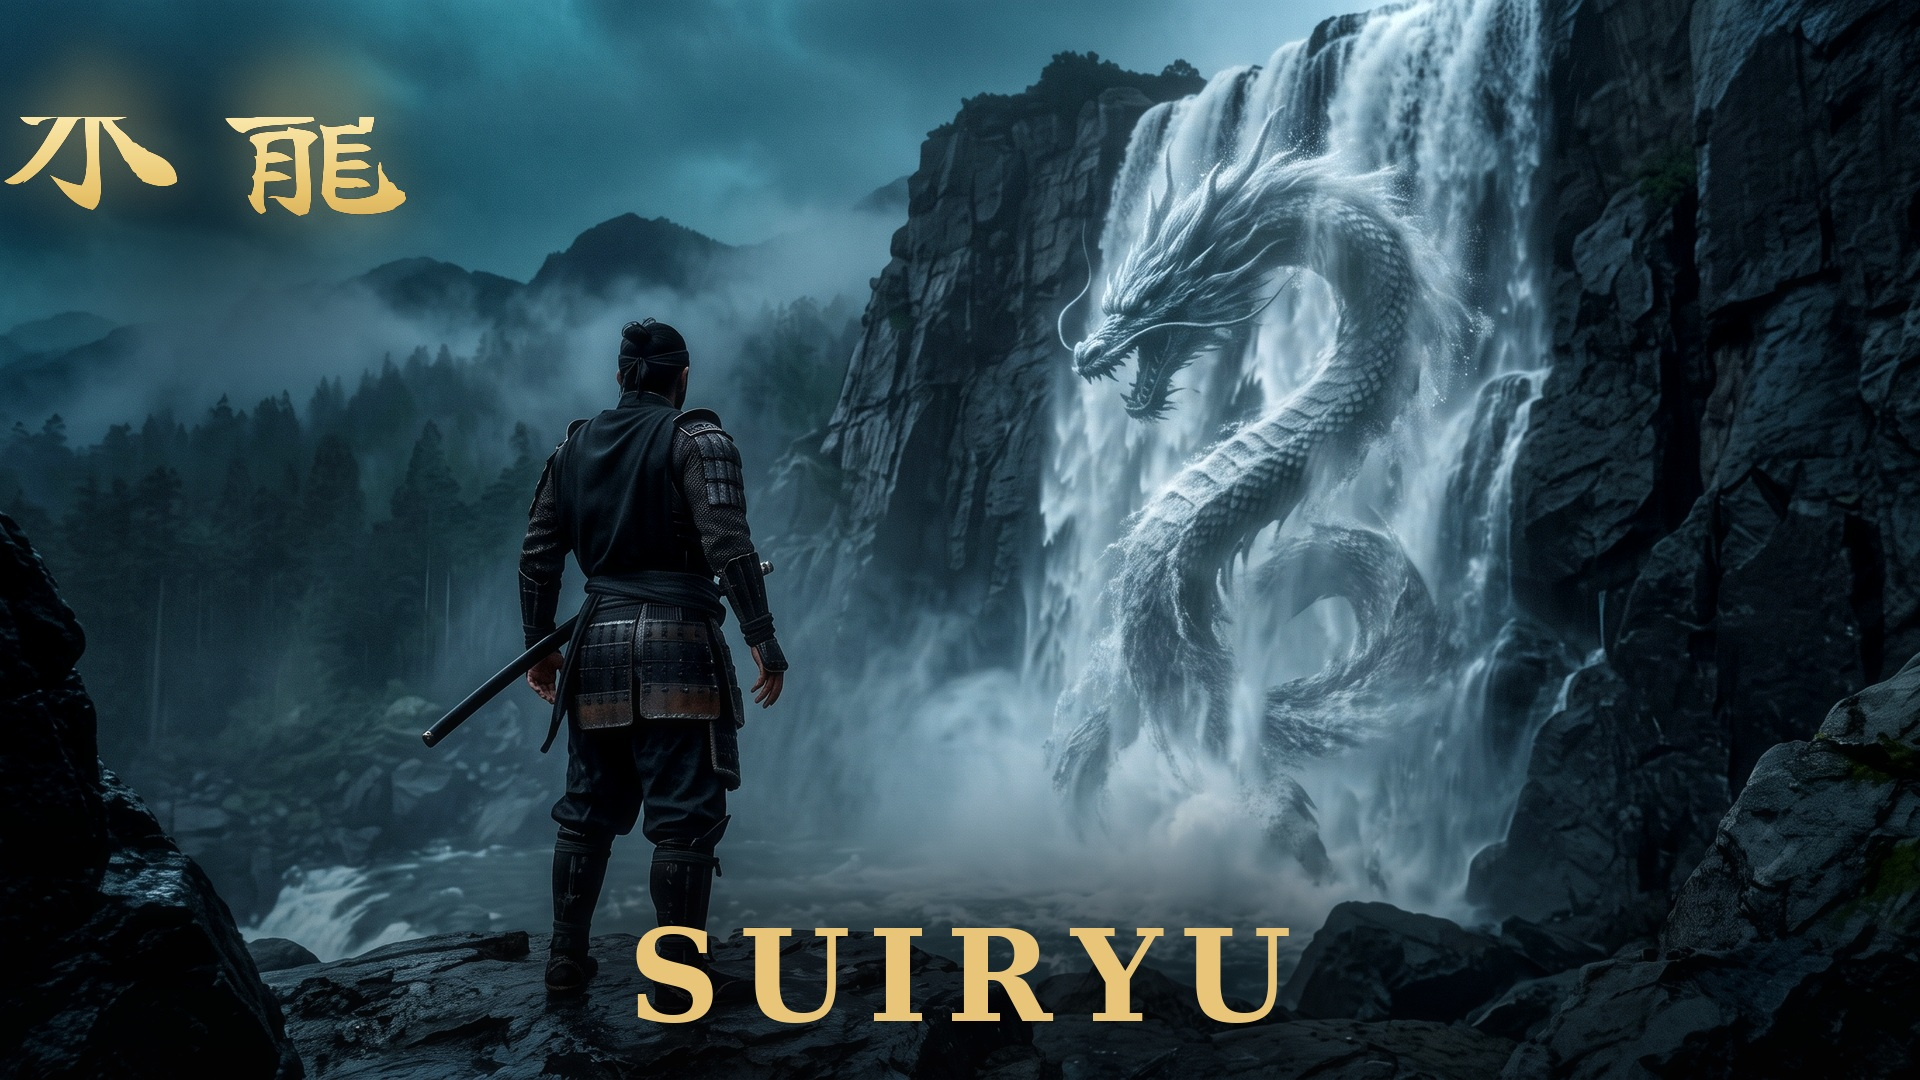
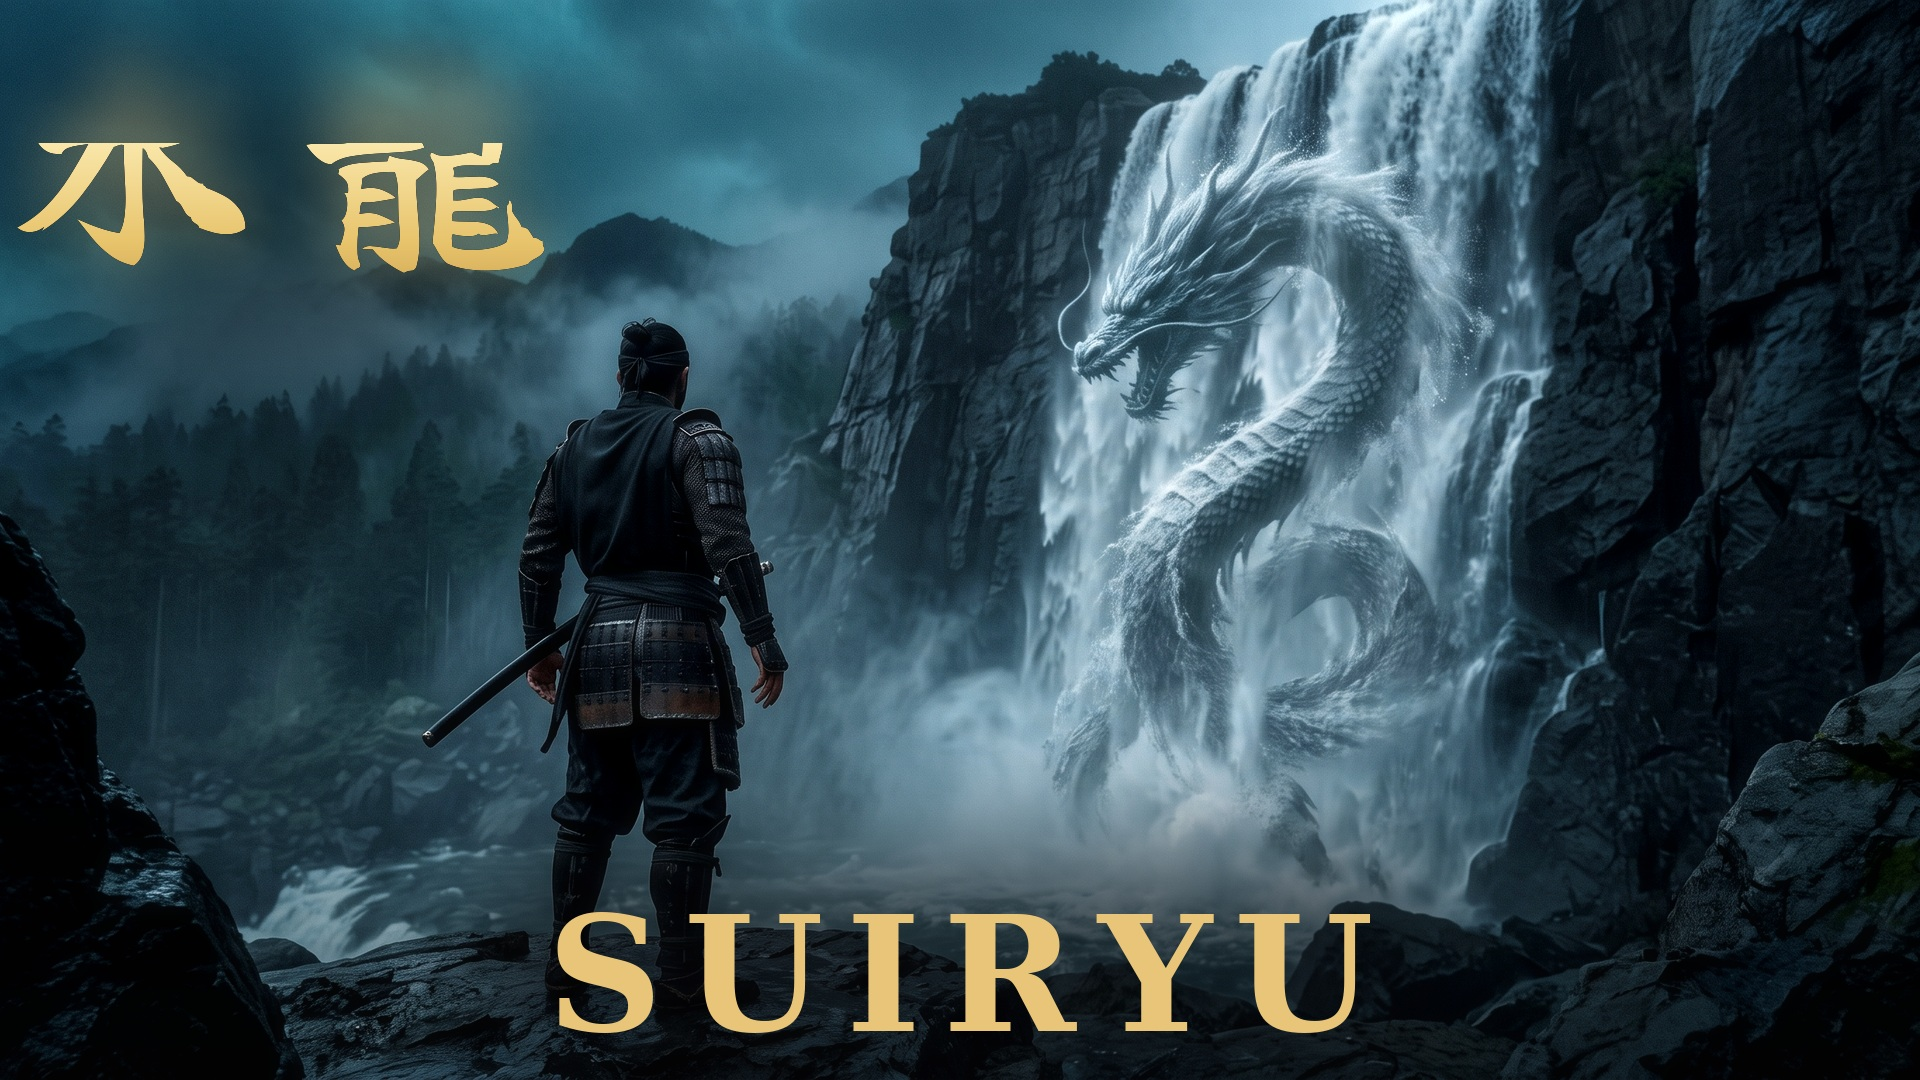
SUIRYU thumbnail v3: both labels larger, kanji off the edge with breathing room

Changed region(s): [[0.2812, 0.7639, 0.75, 0.9778], [0.0, 0.0306, 0.2812, 0.3667]]

diff --git a/stillwave/assets/suiryu-compose-thumb.py b/stillwave/assets/suiryu-compose-thumb.py
@@ -98,9 +98,9 @@ def spaced_centre(im, text, size, cx, y, fill=GOLD, ls=16, font=SERIF, scrim=Tru
 
 im = base()
 CENTRE = 960
-# 水龍 — horizontal gold, upper-LEFT corner (clear of the dragon on the right)
-gold_kanji_h(im, ["水", "龍"], 190, 90, 50, pitch=225, halo=26)
+# 水龍 — horizontal gold, upper-left with breathing room from the edge
+gold_kanji_h(im, ["水", "龍"], 250, 130, 55, pitch=295, halo=30)
 # SUIRYU — large gold serif, low-centre on the dark foreground rock
-spaced_centre(im, "SUIRYU", 128, CENTRE, 900, fill=GOLD, ls=18, font=SERIF)
+spaced_centre(im, "SUIRYU", 160, CENTRE, 880, fill=GOLD, ls=22, font=SERIF)
 im.convert("RGB").save(OUT, quality=94)
 print("saved", OUT)
